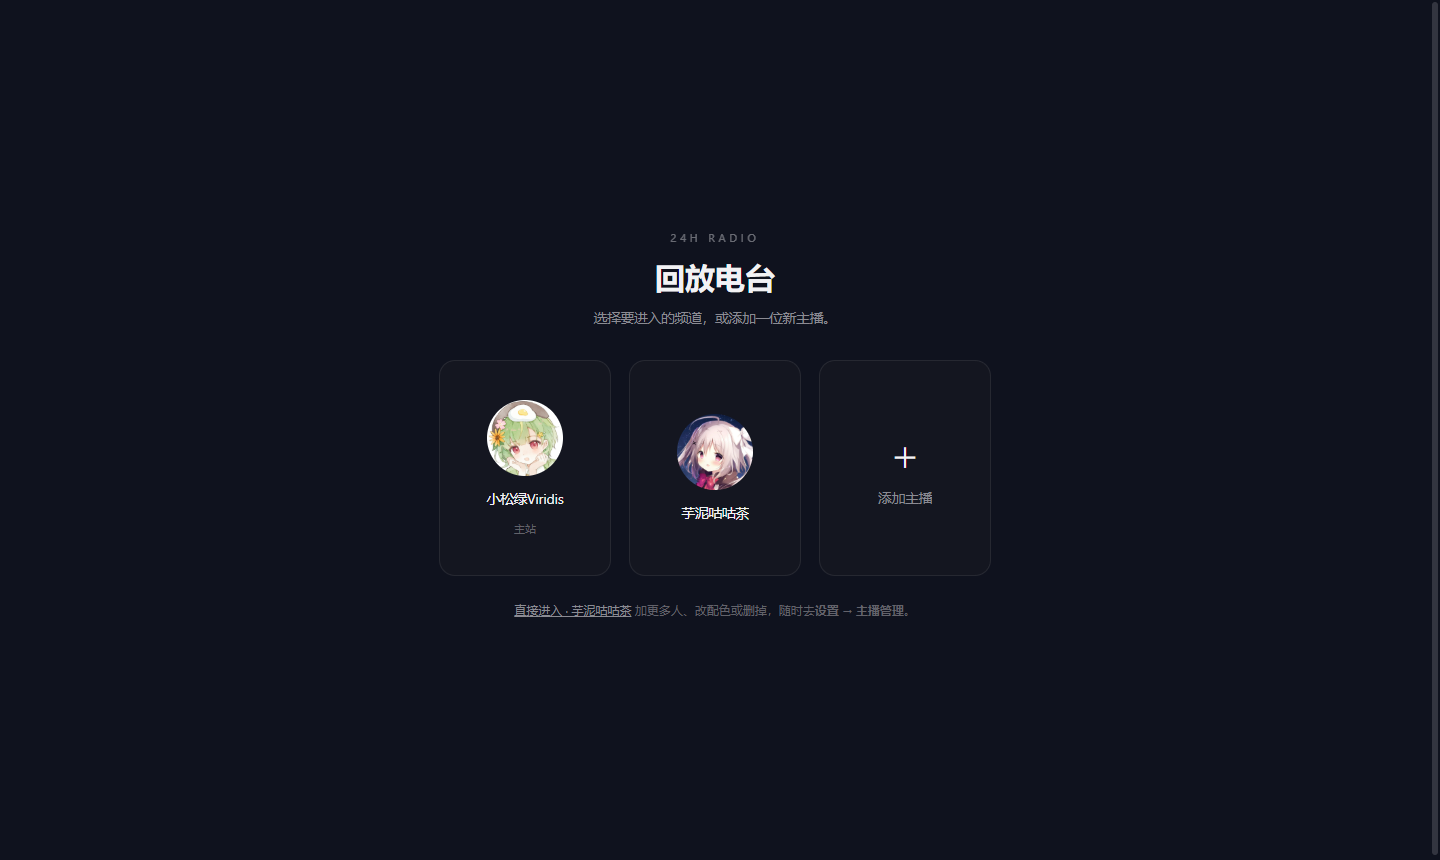
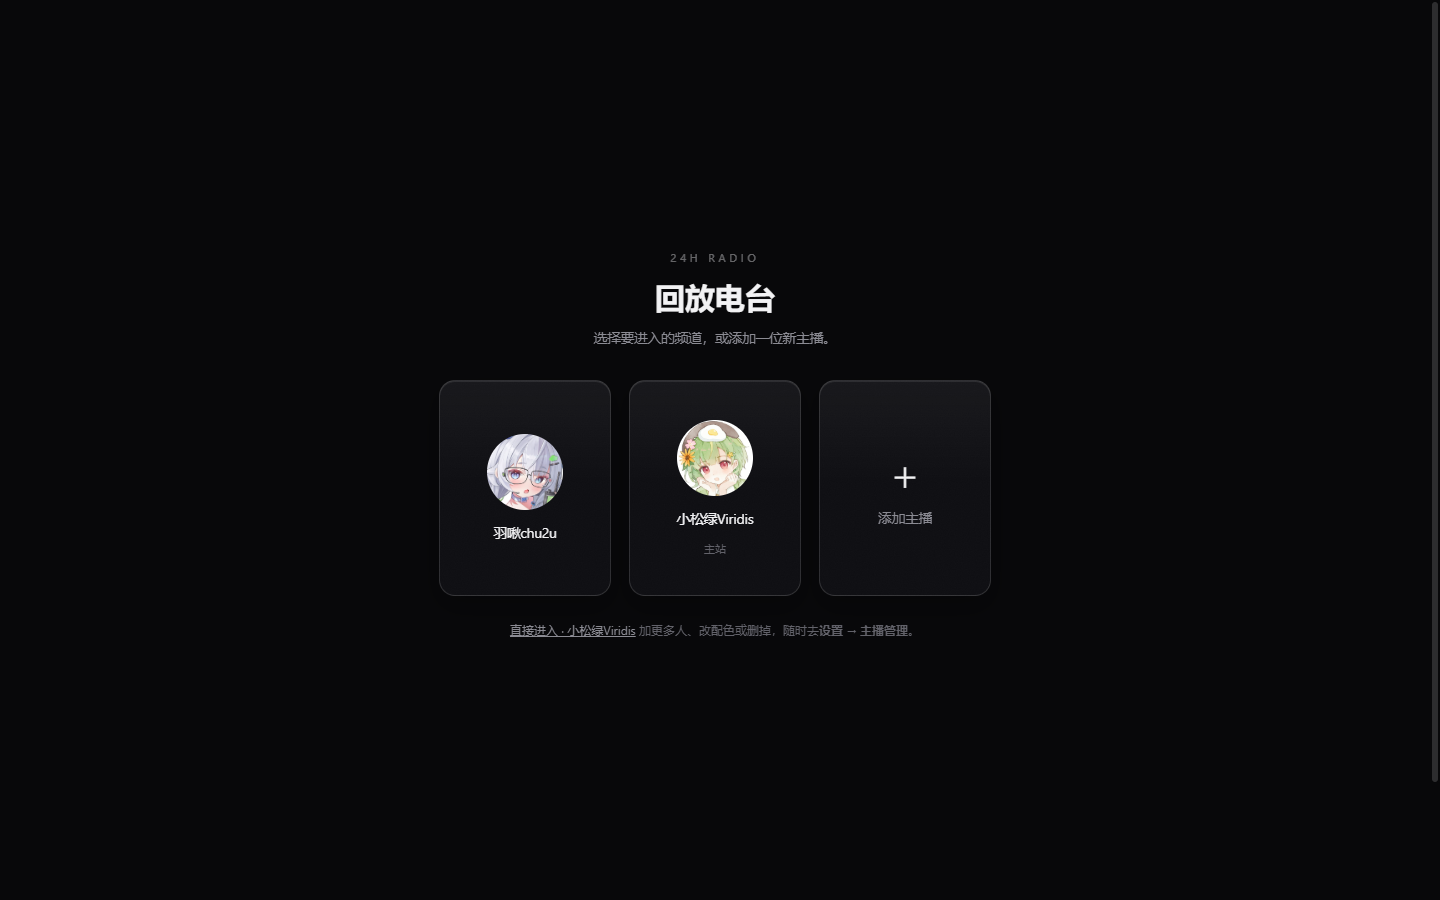
更新 README：界面介绍补齐六板块 + 截图全部重拍
- 功能表新增直播间/节目单/歌单/监控室/动态/微博，与当前九板块对齐
- 截图全部用当前 UI 重拍（1440x900，CDP 实拍）：首屏/频道/剧场/节目单/
  歌单/监控室/直播间/动态/设置/浅色，替换 v1.0.9 时期旧图（含已移除的分类导航）
- 新增「界面一览」图廊；简介补一句板块总览

diff --git a/README.md b/README.md
@@ -2,6 +2,8 @@
 
 不预设主播的 24 小时直播回放频道：填一位 B 站主播的 UID，把 TA 的直播回放变成一个「随时打开都在直播中」的频道。全部运行在本机，不需要服务器。
 
+除回放频道外，同一个页面里还能看**直播间**（含实时弹幕）、**节目单**、导入的**歌单**、**监控室**（同时看多路直播），以及主播的**动态 / 微博**。
+
 ![选择频道页](docs/screenshots/01-onboard.png)
 
 ---
@@ -26,6 +28,11 @@
 | 功能 | 说明 |
 |---|---|
 | 24 小时频道 | 全部回放按固定顺序排成一条循环时间轴，打开即对齐到「现在该播第几场」 |
+| 直播间 | 主播正在直播时直接进直播间看，右侧是实时弹幕，登录后可直接发弹幕互动 |
+| 节目单 | 接下来播什么：24 小时 / 72 小时 / 整个循环的时间表，任一场点一下就播 |
+| 歌单 | 粘一个 B 站链接导入歌单（属于合集就整张导入），按语言 / 风格 / 演唱者筛选，支持连播 |
+| 监控室 | 同时看多路直播：关注的直播自动列出，布局可选（1~9 路 / 自适应 / 自由拖动），每路独立音量与画质 |
+| 动态 / 微博 | 主播的最新动态与微博直接聚在页面里，不用跳出去看 |
 | 跳过空白 | 按音频与画面自动标出「有内容」的片段，只播这些片段（可关） |
 | 分段导航 | 播放器「分段」面板列出本场片段，点一下直达 |
 | 剧场模式 | 网页全屏，左右竖条分别是本场分段与接下来播什么 |
@@ -35,11 +42,23 @@
 | 主题 | 深色（黑红）／ 浅色，顶栏一键切换；另有简体／繁体切换 |
 | 画质 | 页内扫码登录后可取到 1080P；未登录时接口只下发较低清晰度 |
 
-![剧场模式](docs/screenshots/03-theater.png)
+### 界面一览
 
-![主播管理：改名字、换板块色、设默认板块](docs/screenshots/04-stations.png)
+![剧场模式：本场分段与「接下来」分列左右](docs/screenshots/03-theater.png)
 
-![浅色模式](docs/screenshots/05-light.png)
+![节目单：接下来播什么，任一场点一下就播](docs/screenshots/04-schedule.png)
+
+![歌单：导入、按语言/风格/演唱者筛选、连播](docs/screenshots/05-playlist.png)
+
+![监控室：同时看多路直播，布局自选](docs/screenshots/06-monitor.png)
+
+![直播间与实时弹幕（图中主播未开播，显示等待态）](docs/screenshots/07-broadcast.png)
+
+![动态：主播的最新动态聚在页面里](docs/screenshots/08-dynamic.png)
+
+![设置 → 主播管理：加人、改板块色、设默认板块](docs/screenshots/10-settings.png)
+
+![浅色模式](docs/screenshots/11-light.png)
 
 ---
 
